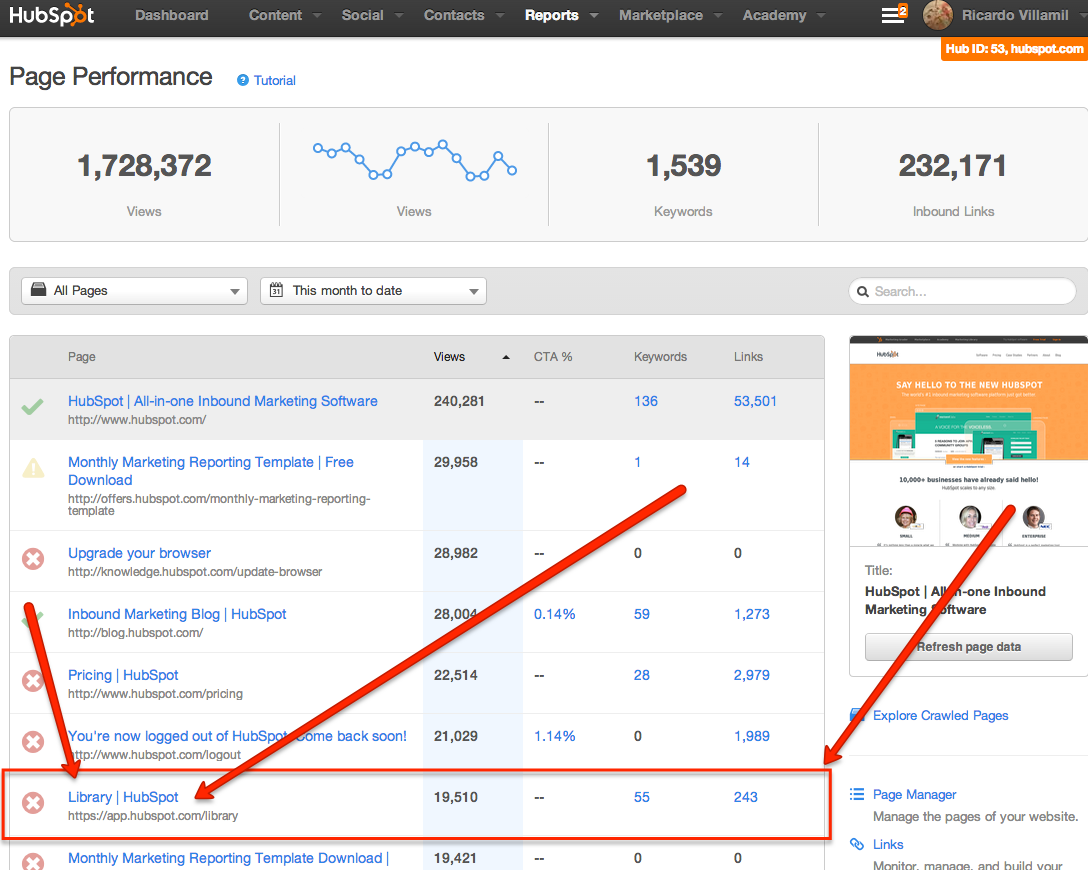
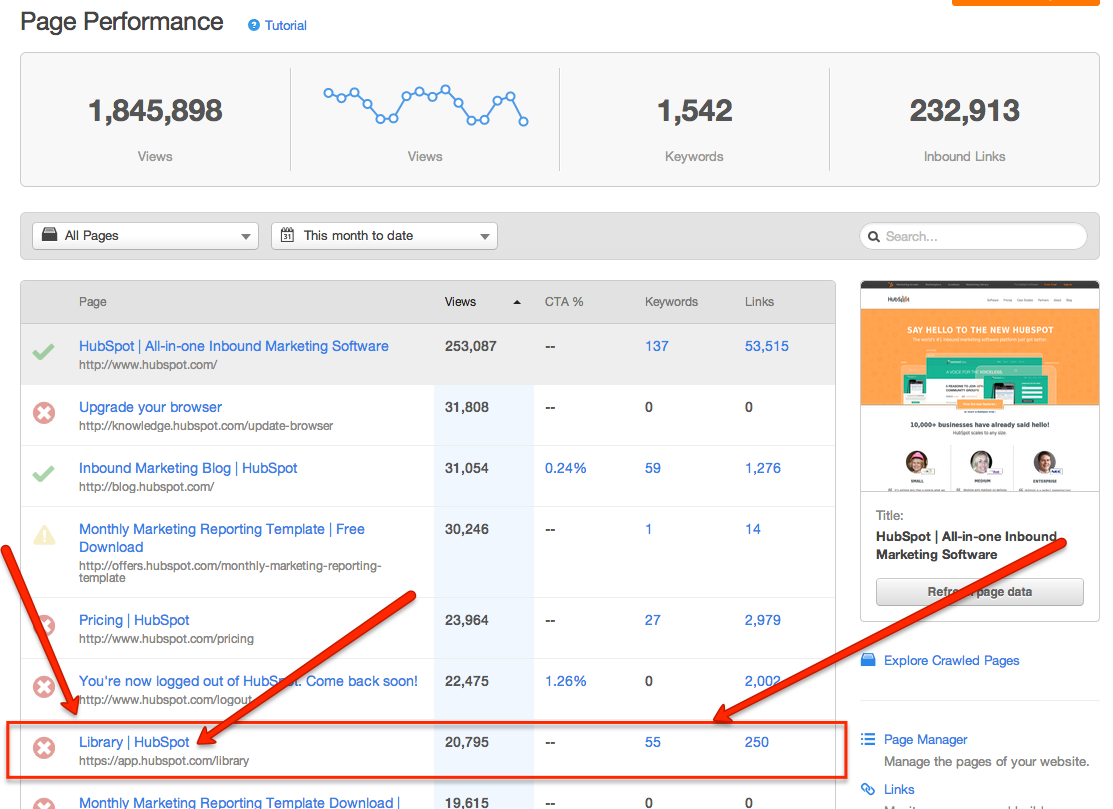
Adding Brian and Nelson, updated Library views

diff --git a/tech-talk.html b/tech-talk.html
@@ -28,10 +28,17 @@
 </head>
 <body>
 	<div class="reveal center">
-	    <div class="slides" style="width: 960px; height: 700px; zoom: 0.5927142857142856;">
+	    <div class="slides" style="width: 100%; height: 700px; zoom: 0.5927142857142856;">
 	        <section style="top: -300px; display: block;" class="present">
 					<h3>Application Components Team</h3>
 					What do we do<span style="color: #F07b00">?</span>
+					<div class="contributors" style="margin-top: 40px">
+		            	<ul>
+		            		<li><img src="img/thennekey.jpeg" /></li>
+		            		<li><img src="img/me.jpg" /></li>
+		            		<li><img src="img/nheaps.jpeg" /></li>
+		            	</ul>
+		            </div>
 			</section>
 			<section>
 				<img src="img/tech-talk/horse1.jpg" width="100%" height="100%" />
@@ -65,6 +72,8 @@
 		            		<li><img src="img/spurcell.jpeg" /></li>
 		            		<li><img src="img/thennekey.jpeg" /></li>
 		            		<li><img src="img/me.jpg" /></li>
+		            		<li><img src="img/bmcmullin.jpeg" /></li>
+		            		<li><img src="img/njoyce.png" /></li>
 		            	</ul>
 		            </div>
 	            </section>
@@ -83,7 +92,7 @@
 	            	<img src="img/tech-talk/Library-diagram.png" width="100%" height="100%" />
 	            </section>
 	            <section>
-	            	<h3>8<small>th</small> most visited page</h3>
+	            	<h3>7<small>th</small> most visited page</h3>
 	            	<img src="img/tech-talk/Library-views.png" width="100%" height="100%" />
 	            </section>
 	            <section>
@@ -127,6 +136,8 @@
 	            		<h4>Contributors</h4>
 		            	<ul>
 		            		<li><img src="img/me.jpg" /></li>
+		            		<li><img src="img/bmcmullin.jpeg" /></li>
+		            		<li><img src="img/njoyce.png" /></li>
 		            	</ul>
 		            </div>
 			    </section>
